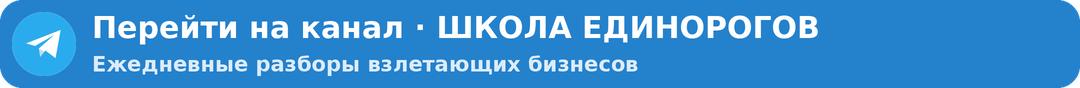
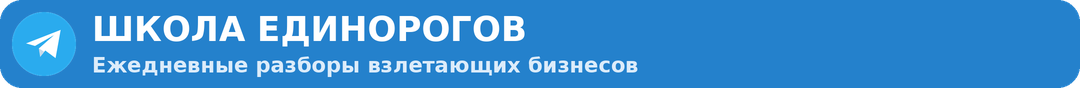
Школа: кнопка только в конце, без слов «Перейти на канал» в картинке, 🦄 в ссылке

Changed region(s): [[0.0611, 0.1591, 0.7639, 0.5227], [0.0917, 0.6364, 0.6111, 0.8636]]

diff --git a/src/investor_agent/unicorn/pipeline.py b/src/investor_agent/unicorn/pipeline.py
@@ -434,7 +434,7 @@ def _channel_button(logo: str | None = None) -> list:
     """Telegraph has no buttons, stretches pictures to the full width, and a link around a picture is not tappable in
     every viewer (the owner saw it dead on a phone). So: the button picture plus a text link right under it."""
     link = {"tag": "p", "children": [{"tag": "a", "attrs": {"href": CHANNEL_URL}, "children": [
-        {"tag": "strong", "children": ["👉 Перейти на канал: " + CHANNEL_URL.removeprefix("https://")]}]}]}
+        "🦄 Перейти на канал: " + CHANNEL_URL.removeprefix("https://")]}]}
     if logo:
         return [{"tag": "figure", "children": [{"tag": "a", "attrs": {"href": CHANNEL_URL}, "children": [
             {"tag": "img", "attrs": {"src": logo}}]}]}, link]
@@ -468,7 +468,6 @@ def build_page(report: dict, registry: SourceRegistry, date_str: str, cover: str
     nodes: list = []
     if cover:
         nodes.append({"tag": "figure", "children": [{"tag": "img", "attrs": {"src": cover}}]})
-        nodes.extend(_channel_button(logo))
     if report.get("subtitle"):
         nodes.append({"tag": "p", "children": [{"tag": "b", "children": [report["subtitle"]]}]})
     if report.get("facts_line"):

diff --git a/tests/test_media.py b/tests/test_media.py
@@ -374,7 +374,9 @@ def test_cover_goes_first_and_file_is_light():
     assert 0 < unicorn.COVER_PATH.stat().st_size < 250_000
 
 
-def test_channel_button_under_cover_and_at_end():
+def test_channel_button_only_at_end():
     reg = SourceRegistry()
     _, nodes = unicorn.build_page(_report_with_media(reg), reg, "9 ноября 2026", "https://img/cover.jpg", "https://img/tg.png")
-    assert "t.me/investor_duker" in json.dumps(nodes[1]) and "tg.png" in json.dumps(nodes[1]) and "t.me/investor_duker" in json.dumps(nodes[-1]) and nodes[-1]["tag"] == "p"
+    flat = [json.dumps(n, ensure_ascii=False) for n in nodes]
+    assert "t.me/investor_duker" not in "".join(flat[:3])  # not under the cover
+    assert "tg.png" in flat[-2] and "🦄 Перейти на канал" in flat[-1]

diff --git a/docs/RULES.md b/docs/RULES.md
@@ -70,4 +70,4 @@
 - **Кэш поиска и чтения страниц на 24 часа** для «Школы единорогов» (повтор упавшего выпуска и факт-проверка не платят дважды). Радару кэш не нужен: ему нужны свежие новости.
 - **Дневной лимит** `DAILY_BUDGET_USD` (по умолчанию 3.0, сутки по Пекину, 0 — выключен): при достижении админу уходит одно сообщение за день; при удвоенном лимите вызовы DeepSeek останавливаются до завтра (публикация готовых выпусков не затрагивается).
 - **Обложка статей «Школы» (Илья, 2026-11-09).** В шапке каждой статьи на Telegraph — картинка «Школа единорогов: путь к вершине» (до подзаголовка и лид-фото). Файл `assets/unicorn_cover.jpg`: JPEG 1080 px по ширине, ~160 КБ, progressive, чтобы быстро грузился на телефоне. Хостинг — Cloudinary (имя файла = хэш содержимого, повторной загрузки нет); сбой загрузки — статья без обложки. Код: `unicorn/pipeline.py` (`COVER_PATH`, `cover_url`, параметр `cover` в `build_page`), `Dockerfile` копирует `assets/`. Драфт в личку: `python -m investor_agent preview` (ссылка только в админ-чат). Тест `test_cover_goes_first_and_file_is_light`.
-\n- **Кнопка «Перейти на канал» (Илья, 2026-11-09).** В статье Школы ссылка-кнопка «[логотип TG] Перейти на канал — 🦄ШКОЛА ЕДИНОРОГОВ. Ежедневные разборы взлетающих бизнесов» (https://t.me/investor_duker); кнопка — готовая картинка `assets/tg_button.png` (1080×88, логотип TG + название, кликабельна), т.к. Telegraph растягивает любые картинки на всю ширину и не умеет встроенные значки; под картинкой всегда текстовая ссылка (ссылка вокруг картинки на телефоне не нажималась) под обложкой и в самом конце статьи (`CHANNEL_URL`, `_channel_button` в `unicorn/pipeline.py`; в Telegraph настоящих кнопок нет). Тест `test_channel_button_under_cover_and_at_end`.\n
+\n- **Кнопка «Перейти на канал» (Илья, 2026-11-09).** В статье Школы ссылка-кнопка «[логотип TG] Перейти на канал — 🦄ШКОЛА ЕДИНОРОГОВ. Ежедневные разборы взлетающих бизнесов» (https://t.me/investor_duker); кнопка — готовая картинка `assets/tg_button.png` (1080×88, логотип TG + название, кликабельна), т.к. Telegraph растягивает любые картинки на всю ширину и не умеет встроенные значки; под картинкой всегда текстовая ссылка (ссылка вокруг картинки на телефоне не нажималась) только в самом конце статьи (под обложкой нет); в картинке без слов «Перейти на канал», они в текстовой ссылке «🦄 Перейти на канал: t.me/investor_duker» (не жирная) (`CHANNEL_URL`, `_channel_button` в `unicorn/pipeline.py`; в Telegraph настоящих кнопок нет). Тест `test_channel_button_only_at_end`.\n
